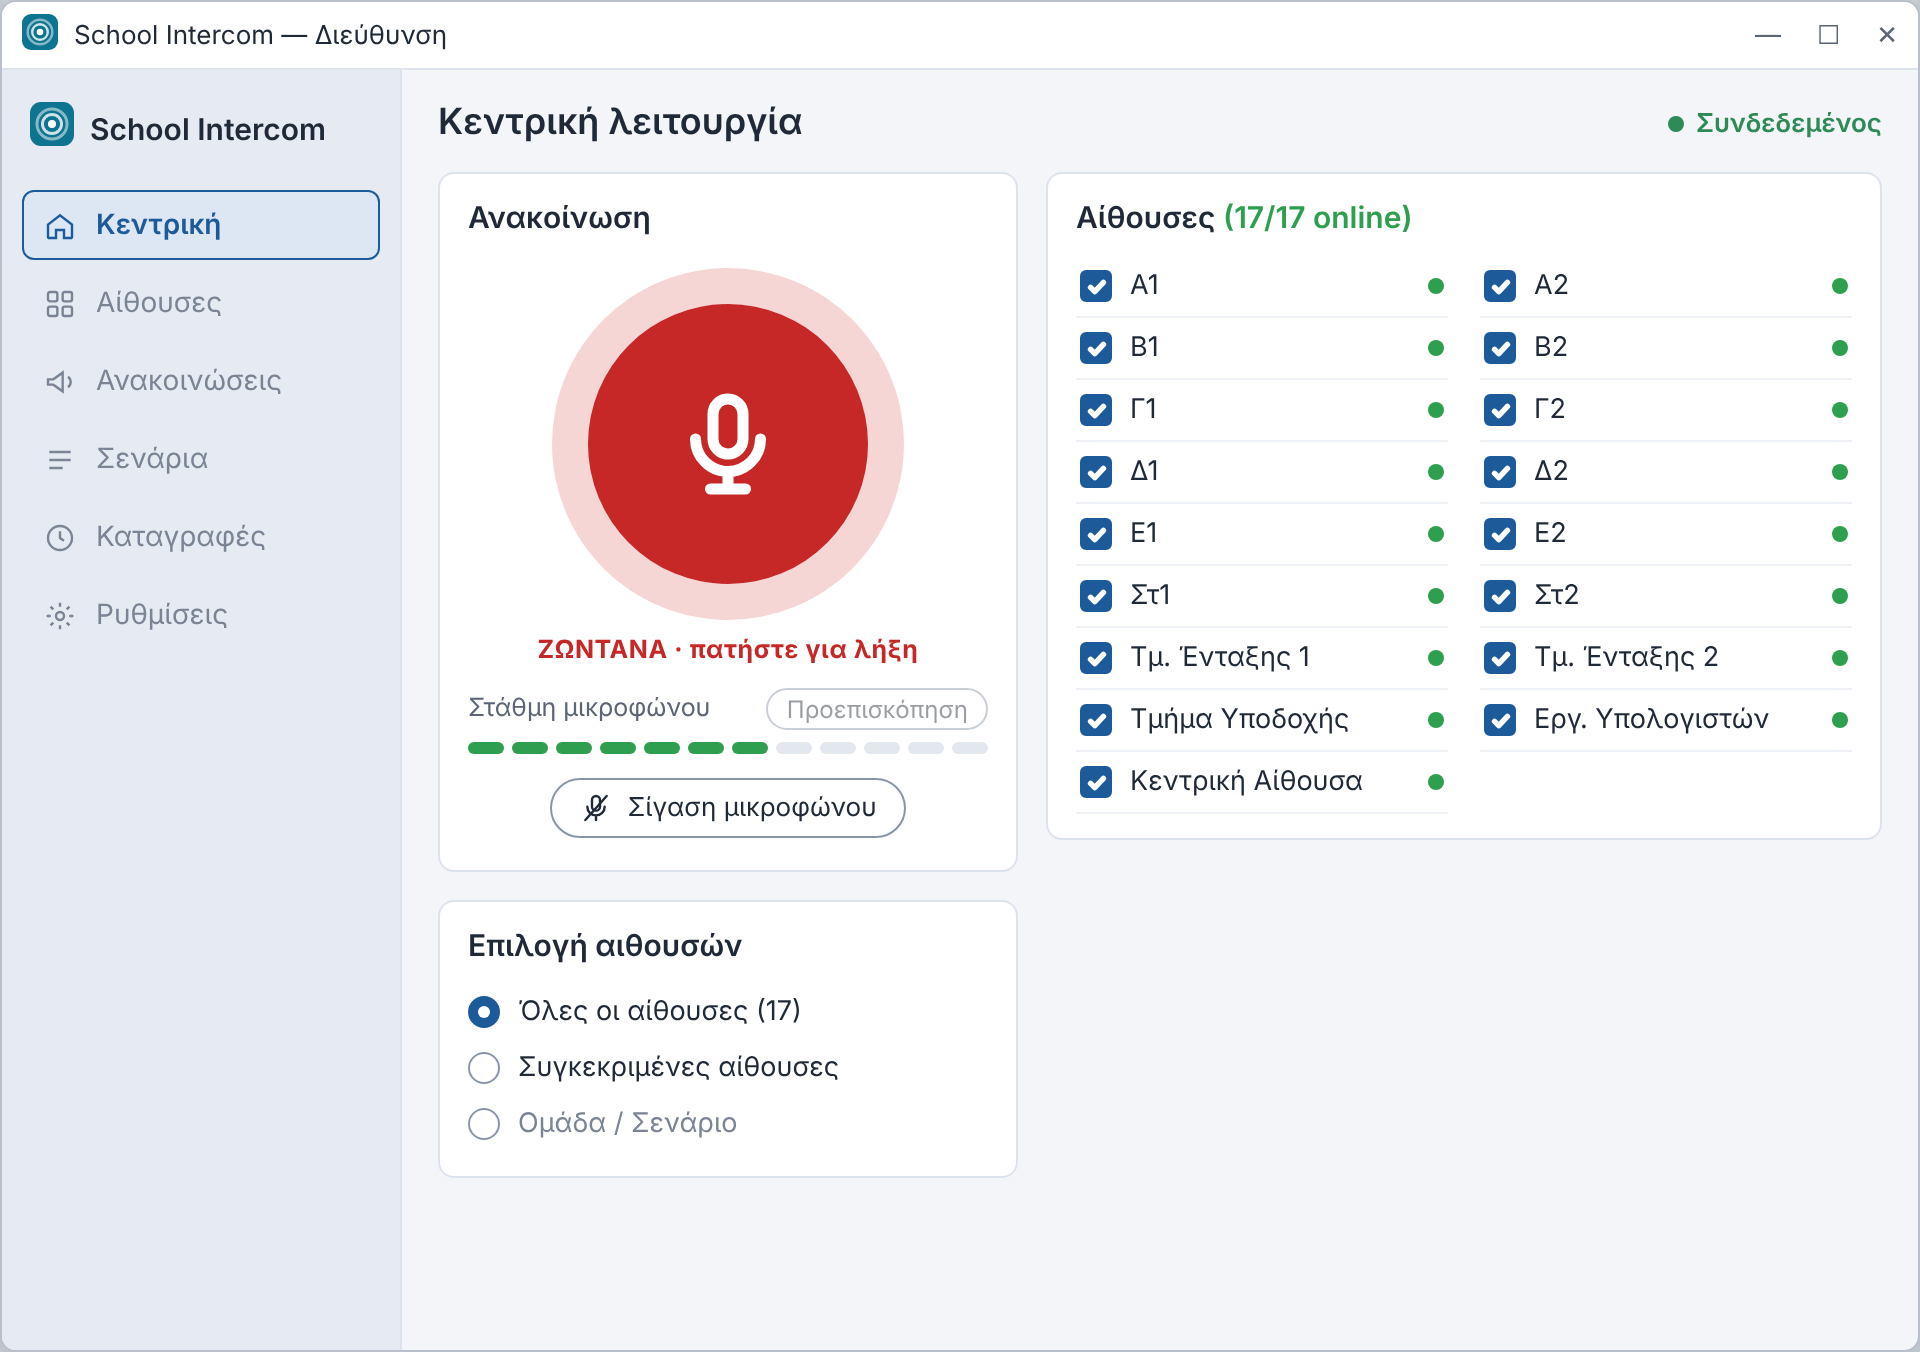
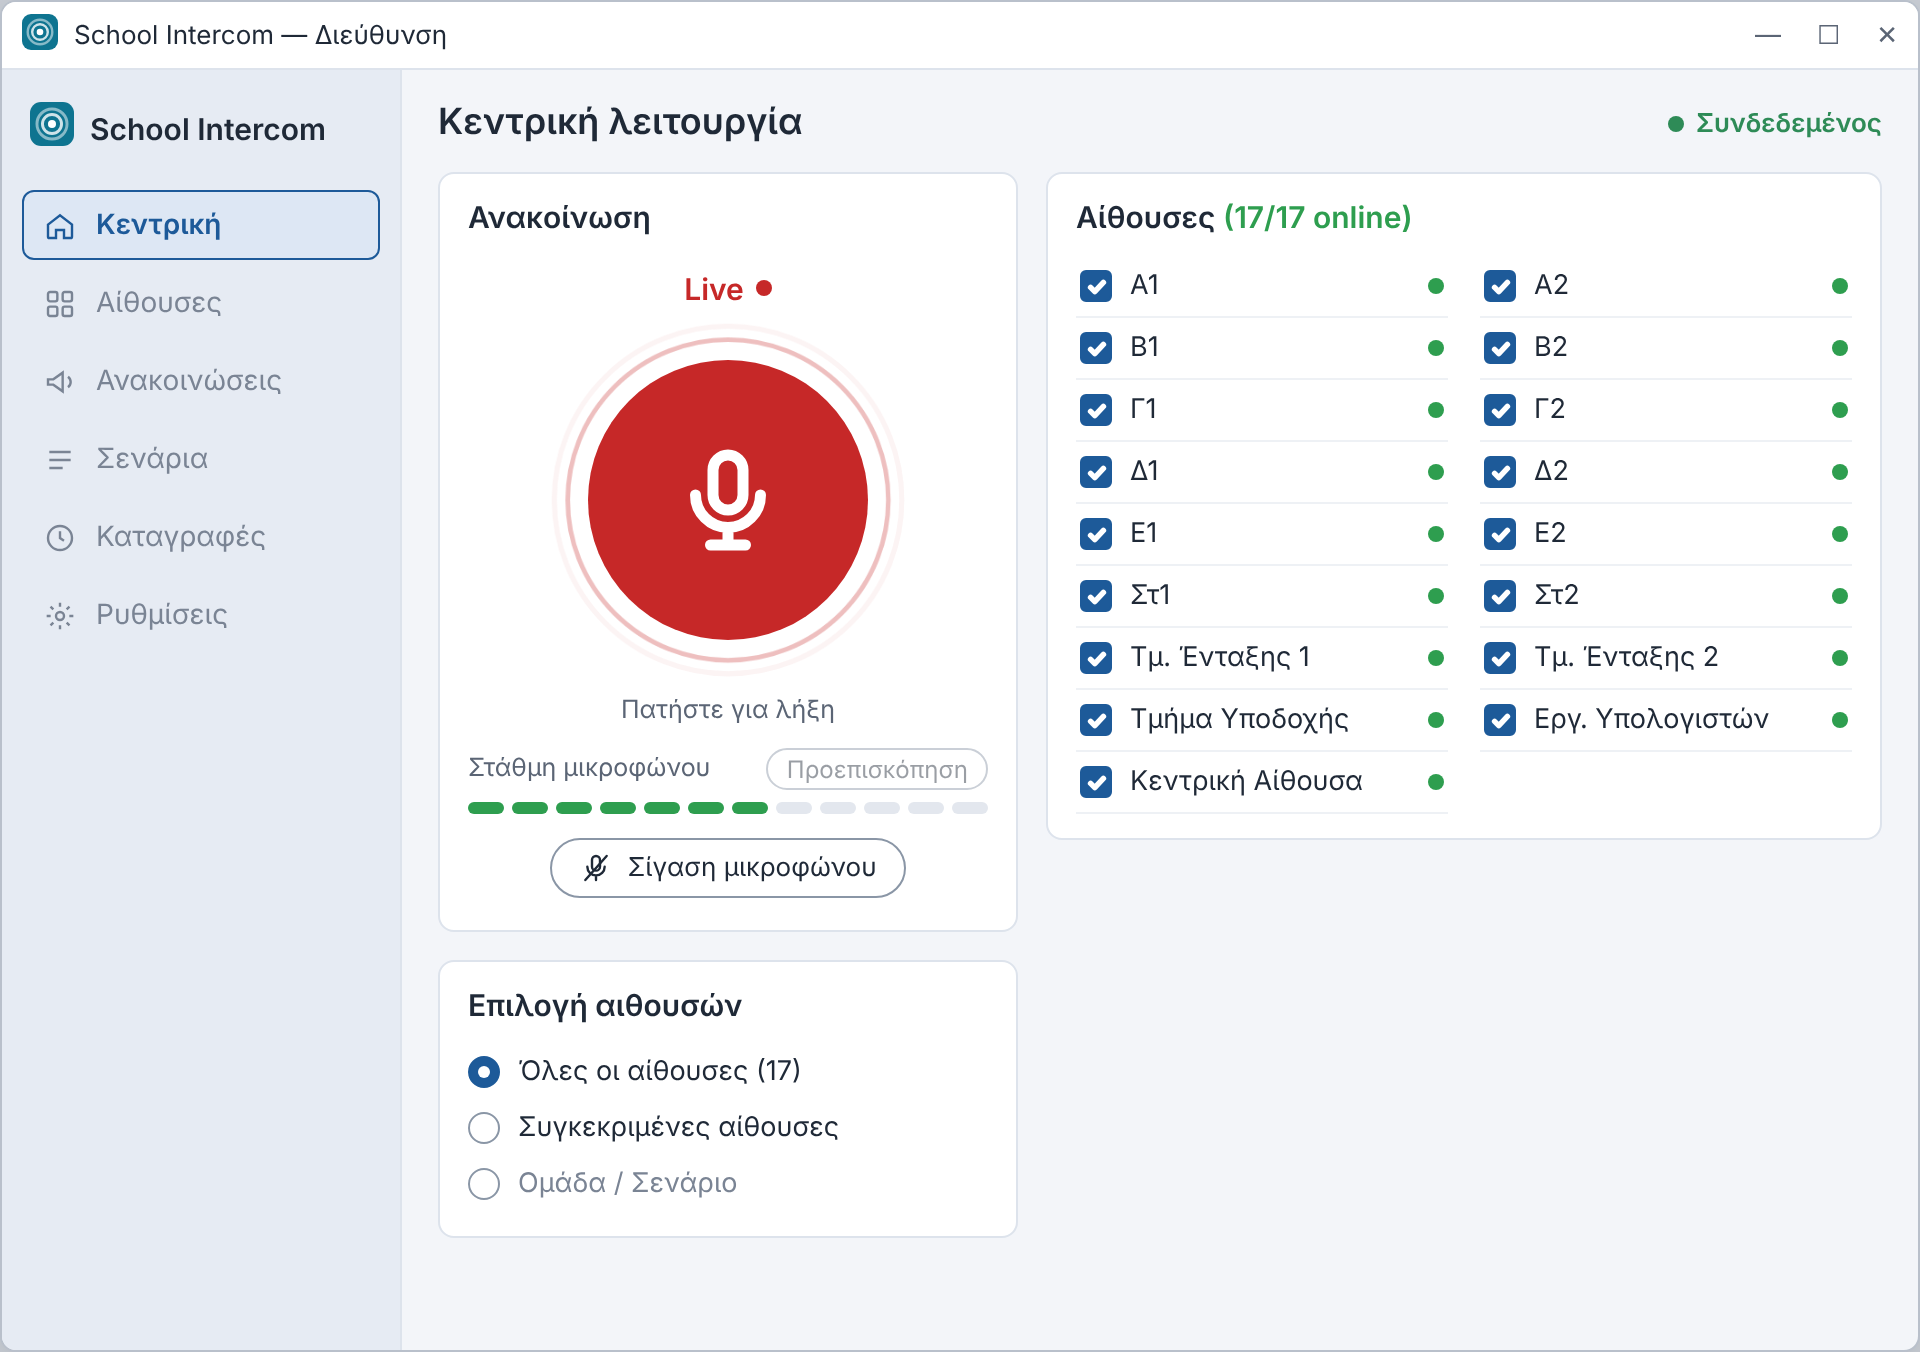
Docs: mockups με «Live ●», κύματα και σίγαση
Claude-Session: https://claude.ai/code/session_01KrSiFtsp6FzeUdZ8iLRjNb

Changed region(s): [[0.25, 0.1864, 0.5312, 0.6834], [0.2188, 0.6834, 0.4375, 0.8388], [0.25, 0.8698, 0.375, 0.9009]]

diff --git a/docs/mockups/director-main.html b/docs/mockups/director-main.html
@@ -25,13 +25,22 @@ body{margin:0;font-family:"Segoe UI","Noto Sans",Arial,sans-serif;color:var(--te
 .card{background:#fff;border:1px solid var(--card-b);border-radius:8px;padding:12px 14px}
 .card h2{font-size:15px;font-weight:600;margin:0 0 10px}
 .micwrap{display:flex;flex-direction:column;align-items:center;padding:6px 0 4px}
-.ring{width:176px;height:176px;border-radius:50%;background:var(--blue-l);display:flex;align-items:center;justify-content:center}
+.ring{position:relative;width:176px;height:176px;border-radius:50%;background:var(--blue-l);display:flex;align-items:center;justify-content:center;margin:2px;transition:background-color .3s}
 .ring.live{background:var(--red-l)}
+.ring.waves{background:transparent}
+.wave{position:absolute;left:50%;top:50%;width:140px;height:140px;margin:-70px 0 0 -70px;border:2px solid var(--red);border-radius:50%;opacity:0;pointer-events:none}
+.ring.waves .wave{animation:wave 2.4s cubic-bezier(.33,1,.68,1) infinite}
+.ring.waves .wave:nth-child(2){animation-delay:.8s}
+.ring.waves .wave:nth-child(3){animation-delay:1.6s}
+@keyframes wave{from{transform:scale(1);opacity:.7}to{transform:scale(1.28);opacity:0}}
+.btn{position:relative}
+.badge{display:flex;align-items:center;gap:6px;color:var(--red);font-weight:600;font-size:15px;height:20px;margin-bottom:6px;visibility:hidden}
+.badge i{width:8px;height:8px;border-radius:50%;background:var(--red);display:inline-block}
+.badge.on{visibility:visible}
 .btn{width:140px;height:140px;border-radius:50%;background:var(--blue);display:flex;align-items:center;justify-content:center}
 .btn.live{background:var(--red)}
 .btn svg{width:60px;height:60px;stroke:#fff;fill:none;stroke-width:2.2;stroke-linecap:round}
 .state{font-size:12.5px;color:var(--muted);margin-top:8px;height:16px}
-.state.live{color:var(--red);font-weight:700;letter-spacing:.3px}
 .lvl-h{display:flex;align-items:center;width:100%;margin-top:10px;font-size:12.5px;color:var(--muted)}
 .prev{margin-left:auto;font-size:12px;border:1px solid var(--grey);border-radius:12px;padding:2px 9px;color:var(--text);background:#fff}
 .meter{display:flex;gap:4px;width:100%;margin-top:6px}
@@ -71,7 +80,8 @@ body{margin:0;font-family:"Segoe UI","Noto Sans",Arial,sans-serif;color:var(--te
     <div class="left">
      <div class="card"><h2>Ανακοίνωση</h2>
       <div class="micwrap">
-       <div class="ring" id="ring"><div class="btn" id="btn"><svg viewBox="0 0 24 24"><rect x="9" y="3" width="6" height="11" rx="3"/><path d="M5.5 11a6.5 6.5 0 0 0 13 0M12 17.5V21M8.5 21h7"/></svg></div></div>
+       <div class="badge" id="badge">Live<i></i></div>
+       <div class="ring" id="ring"><span class="wave"></span><span class="wave"></span><span class="wave"></span><div class="btn" id="btn"><svg viewBox="0 0 24 24"><rect x="9" y="3" width="6" height="11" rx="3"/><path d="M5.5 11a6.5 6.5 0 0 0 13 0M12 17.5V21M8.5 21h7"/><path id="slash" d="M20 3L4 21" style="display:none"/></svg></div></div>
        <div class="state" id="state">Πατήστε για έναρξη</div>
        <div class="lvl-h">Στάθμη μικροφώνου<span class="prev" id="prev">Προεπισκόπηση</span></div>
        <div class="meter" id="meter"></div>
@@ -94,8 +104,12 @@ const icon=s=>`<svg width="${s}" height="${s}" viewBox="0 0 24 24"><rect width="
 ico1.innerHTML=icon(18);ico2.innerHTML=icon(22);
 const names=["Α1","Α2","Β1","Β2","Γ1","Γ2","Δ1","Δ2","Ε1","Ε2","Στ1","Στ2","Τμ. Ένταξης 1","Τμ. Ένταξης 2","Τμήμα Υποδοχής","Εργ. Υπολογιστών","Κεντρική Αίθουσα"];
 const tick='<svg viewBox="0 0 12 12"><path d="M2.5 6.2l2.3 2.3 4.7-5"/></svg>';
-const live=location.hash==="#live";
+// #live: ζωντανή ανακοίνωση (κύματα) · #live-muted: ζωντανή με σίγαση.
+const muted=location.hash==="#live-muted";
+const live=location.hash==="#live"||muted;
 rooms.innerHTML=names.map(n=>`<div class="room"><span class="cb on">${tick}</span>${n}<span class="dot"></span></div>`).join("");
 const lv=live?7:0;meter.innerHTML=Array.from({length:12},(_,i)=>`<b class="${i<lv?'on':''}"></b>`).join("");
-if(live){ring.classList.add("live");btn.classList.add("live");state.classList.add("live");state.textContent="ΖΩΝΤΑΝΑ · πατήστε για λήξη";prev.style.opacity=.45;}
+if(live){ring.classList.add("live");btn.classList.add("live");badge.classList.add("on");prev.style.opacity=.45;
+ state.textContent=muted?"Σίγαση · πατήστε για λήξη":"Πατήστε για λήξη";
+ if(muted){slash.style.display="";}else{ring.classList.add("waves");}}
 </script></body></html>

diff --git a/tools/render_director_gui.py b/tools/render_director_gui.py
@@ -3,7 +3,8 @@
 Χρήση (Linux/Windows, χρειάζεται PySide6):
     python -m tools.render_director_gui --out-dir screenshots
 
-Γράφει director-main-idle.png και director-main-live.png με ψεύτικους
+Γράφει director-main-idle.png, director-main-live.png και
+director-main-live-muted.png με ψεύτικους
 Clients (τα 17 ενδεικτικά ονόματα του ui-design.md) και ψεύτικο μικρόφωνο.
 Χρησιμεύει για σύγκριση με το docs/mockups/ και για τα PR. Δεν είναι δοκιμή
 πραγματικού ήχου ή εμφάνισης στα Windows.
@@ -77,6 +78,9 @@ def main() -> None:
     window.toggle_announcement()
     settle()
     window.grab().save(str(args.out_dir / "director-main-live.png"))
+    window.mute_button.click()
+    settle(500)
+    window.grab().save(str(args.out_dir / "director-main-live-muted.png"))
     window.close()
     release_window(window)
     app.processEvents()

diff --git a/docs/ui-style.md b/docs/ui-style.md
@@ -2,7 +2,7 @@
 
 Κατάσταση: **εγκεκριμένος** (21/11/2026). Ισχύει για **όλο** το UI (Director, Client, popup, tray) και για κάθε μελλοντική οθόνη. Πριν από οποιαδήποτε αλλαγή UI διαβάζεται αυτό το αρχείο· νέα οθόνη δεν εισάγει δικά της χρώματα, γραμματοσειρές ή στυλ στοιχείων αν υπάρχει ήδη κανόνας εδώ. Τι εμφανίζει κάθε οθόνη: [ui-design.md](ui-design.md).
 
-Mockup αναφοράς της κεντρικής οθόνης Director: [αναμονή](mockups/director-main-idle.png), [ζωντανή ανακοίνωση](mockups/director-main-live.png), πηγή HTML [director-main.html](mockups/director-main.html) (`#live` για τη ζωντανή κατάσταση). Το mockup δείχνει διάταξη και στυλ· δεν είναι κώδικας εφαρμογής.
+Mockup αναφοράς της κεντρικής οθόνης Director: [αναμονή](mockups/director-main-idle.png), [ζωντανή ανακοίνωση](mockups/director-main-live.png), [ζωντανή με Mute](mockups/director-main-live-muted.png), πηγή HTML [director-main.html](mockups/director-main.html) (`#live`, `#live-muted`· τα κύματα τρέχουν ως CSS animation). Η εξέλιξη των κυμάτων «Live» στην εφαρμογή: [director-live-waves.png](mockups/director-live-waves.png). Το mockup δείχνει στυλ και το κουμπί ανακοίνωσης· η διάταξη των καρτών και της κάρτας «Αίθουσες» ακολουθεί το §5, που υπερισχύει όπου διαφέρει. Δεν είναι κώδικας εφαρμογής.
 
 ## 1. Χρώματα (tokens)
 
